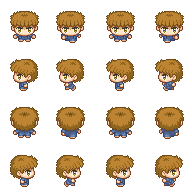
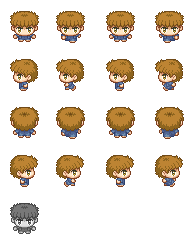
Fade when dead

diff --git a/js/Player.js b/js/Player.js
@@ -49,6 +49,8 @@ Player = Entity.extend({
      */
     escapeBomb: null,
 
+    deadTimer: 0,
+
     init: function(position, controls) {
         if (controls) {
             this.controls = controls;
@@ -63,7 +65,7 @@ Player = Entity.extend({
                 left: [4, 7, 'left', 10],
                 up: [8, 11, 'up', 10],
                 right: [12, 15, 'right', 10],
-                dead: [0, 0, 'dead', 10]
+                dead: [16, 16, 'dead', 10]
             }
         });
         this.bmp = new createjs.BitmapAnimation(spriteSheet);
@@ -114,6 +116,10 @@ Player = Entity.extend({
     },
 
     update: function() {
+        if (!this.alive) {
+            //this.fade();
+            return;
+        }
         if (gGameEngine.menu.visible) {
             return;
         }
@@ -271,6 +277,23 @@ Player = Entity.extend({
             gGameEngine.gameOver('lose');
         }
 
-        gGameEngine.stage.removeChild(this.bmp);
+        this.bmp.gotoAndPlay('dead');
+        this.fade();
+    },
+
+    fade: function() {
+        var timer = 0;
+        var bmp = this.bmp;
+        var fade = setInterval(function() {
+            timer++;
+
+            if (timer > 30) {
+                bmp.alpha -= 0.05;
+            }
+            if (bmp.alpha <= 0) {
+                clearInterval(fade);
+            }
+
+        }, 30);
     }
 });

diff --git a/js/Bot.js b/js/Bot.js
@@ -39,6 +39,7 @@ Bot = Player.extend({
 
     update: function() {
          if (!this.alive) {
+            this.fade();
             return;
         }
 
